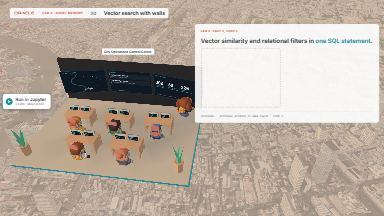
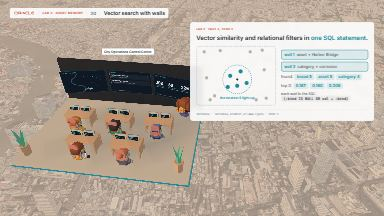
Captures can no longer slow the PC; previews show each page's end
Why the PC kept crawling: the capture tools' hidden browser draws the 3D city in software, and its gpu-process
kept ~12 of 16 cores busy at AboveNormal priority; when a tool was killed (timeout, stopped task) its browser kept
running; two sessions could capture at once; captures ran while the owner used the app.

Now (tools/browser.mjs + vite.config.ts):
- one capture at a time across tools and sessions (lock file in TEMP);
- the browser starts at Idle priority; the dev server keeps every capture process at Idle on a quarter of the cores
  (measured: ~3 of 16 cores instead of ~12) and closes it within ~6 s once its tool has died in any way;
- leftovers are closed before a new capture and once a minute;
- GET /__viewers counts open app tabs (local and tunnel); captures wait while anyone has the app open and pause
  between pages if someone opens it (CAPTURE_ANYWAY=1 skips);
- the duplicate 'plugins' key in vite.config.ts is gone.

capture-thumbs waits for each page's end: camera arrived, sky act run out (12 s), overlay quiet for 3 s (cap 35 s);
previews for Intro 3 and Lab 3 pages 16, 17, 19, 20 redone that way.

Changed region(s): [[0.4688, 0.0833, 1.0, 0.5833], [0.0, 0.4167, 0.1562, 0.5278]]

diff --git a/vite.config.ts b/vite.config.ts
@@ -1,7 +1,10 @@
 /// <reference types="vitest" />
 import { defineConfig } from 'vite';
 import react from '@vitejs/plugin-react';
-import { existsSync, readFileSync, writeFileSync } from 'node:fs';
+import { spawn } from 'node:child_process';
+import { existsSync, readFileSync, unlinkSync, writeFileSync } from 'node:fs';
+import { cpus, tmpdir } from 'node:os';
+import { join } from 'node:path';
 import { fileURLToPath } from 'node:url';
 import type { Plugin } from 'vite';
 import { canSaveFrom, TUNNEL_HOSTS } from './src/engine/remote';
@@ -55,13 +58,89 @@ function fullReloadForScene(): Plugin {
   };
 }
 
+/**
+ * GET /__viewers: how many browsers have the app open right now (one hot-reload socket each). The capture tools
+ * (tools/browser.mjs) wait while it is above zero, so a capture never slows the PC while someone uses the app.
+ */
+function viewersCount(): Plugin {
+  return {
+    name: 'cityops-viewers',
+    configureServer(server) {
+      server.middlewares.use('/__viewers', (_req, res) => {
+        res.setHeader('content-type', 'application/json');
+        res.setHeader('cache-control', 'no-store');
+        res.end(JSON.stringify({ viewers: server.ws.clients.size }));
+      });
+    },
+  };
+}
+
+/**
+ * The capture tools' hidden browser draws the city in software: its gpu-process alone kept ~12 of 16 cores busy at
+ * AboveNormal priority (Edge raises it itself), and when a tool was killed its browser kept running and the PC
+ * crawled (owner, 25 Oct). The dev server runs all day, so it keeps watch: while a capture holds the lock, every
+ * capture process goes to Idle priority on a quarter of the cores (re-applied every 5 s, Edge raises it again);
+ * once the holder has died, its browser is closed and the lock removed; once a minute, any capture browser with no
+ * live holder is closed. Windows only; capture processes are found by their throw-away profile folder name.
+ */
+function captureGuard(): Plugin {
+  const LOCK = join(tmpdir(), 'cityops-capture.lock');
+  const n = cpus().length;
+  const k = Math.max(2, Math.floor(n / 4));
+  const mask = Number(((1n << BigInt(k)) - 1n) << BigInt(Math.max(0, n - k)));
+  const MATCH = `Get-CimInstance Win32_Process -Filter "Name='msedge.exe' OR Name='chrome.exe'" | Where-Object { $_.CommandLine -like '*cityops-capture-*' }`;
+  const CALM = `${MATCH} | ForEach-Object { $q = Get-Process -Id $_.ProcessId -ErrorAction SilentlyContinue; if ($q) { if ($q.PriorityClass -ne 'Idle') { try { $q.PriorityClass = 'Idle' } catch {} }; if ([int64]$q.ProcessorAffinity -ne ${mask}) { try { $q.ProcessorAffinity = [IntPtr]${mask} } catch {} } } }`;
+  const CLOSE = `${MATCH} | ForEach-Object { Stop-Process -Id $_.ProcessId -Force -ErrorAction SilentlyContinue }`;
+  const alive = (pid: number) => {
+    try {
+      process.kill(pid, 0);
+      return true;
+    } catch (e) {
+      return (e as NodeJS.ErrnoException).code === 'EPERM';
+    }
+  };
+  let busy = false;
+  const ps = (command: string) => {
+    if (busy) return;
+    busy = true;
+    spawn('powershell', ['-NoProfile', '-Command', command], { stdio: 'ignore', windowsHide: true }).on('exit', () => (busy = false)).on('error', () => (busy = false));
+  };
+  return {
+    name: 'cityops-capture-guard',
+    configureServer(server) {
+      if (process.platform !== 'win32') return;
+      let tick = 0;
+      const timer = setInterval(() => {
+        tick++;
+        let holder = 0;
+        try {
+          holder = Number(readFileSync(LOCK, 'utf8').trim());
+        } catch {
+          /* no capture running */
+        }
+        if (holder && alive(holder)) return ps(CALM);
+        if (holder) {
+          try {
+            unlinkSync(LOCK);
+          } catch {
+            /* gone already */
+          }
+          return ps(CLOSE);
+        }
+        if (tick % 12 === 0) ps(CLOSE);
+      }, 5000);
+      timer.unref();
+      server.httpServer?.on('close', () => clearInterval(timer));
+    },
+  };
+}
+
 export default defineConfig({
-  plugins: [react(), cameraOverrides()],
   base: './',
   build: { assetsInlineLimit: 0 },
   // the saved-angles file changes while presenting: do not reload the page when it does. Polling: on this
   // machine the file-change events were sometimes missed and the server kept serving stale code.
-  plugins: [react(), cameraOverrides(), fullReloadForScene()],
+  plugins: [react(), cameraOverrides(), fullReloadForScene(), viewersCount(), captureGuard()],
   server: { port: 5174, strictPort: true, watch: { ignored: ['**/src/content/cameraOverrides.json', '**/public/**', '**/.claude/**'], usePolling: true, interval: 400 }, allowedHosts: TUNNEL_HOSTS },
   test: {
     environment: 'jsdom',
